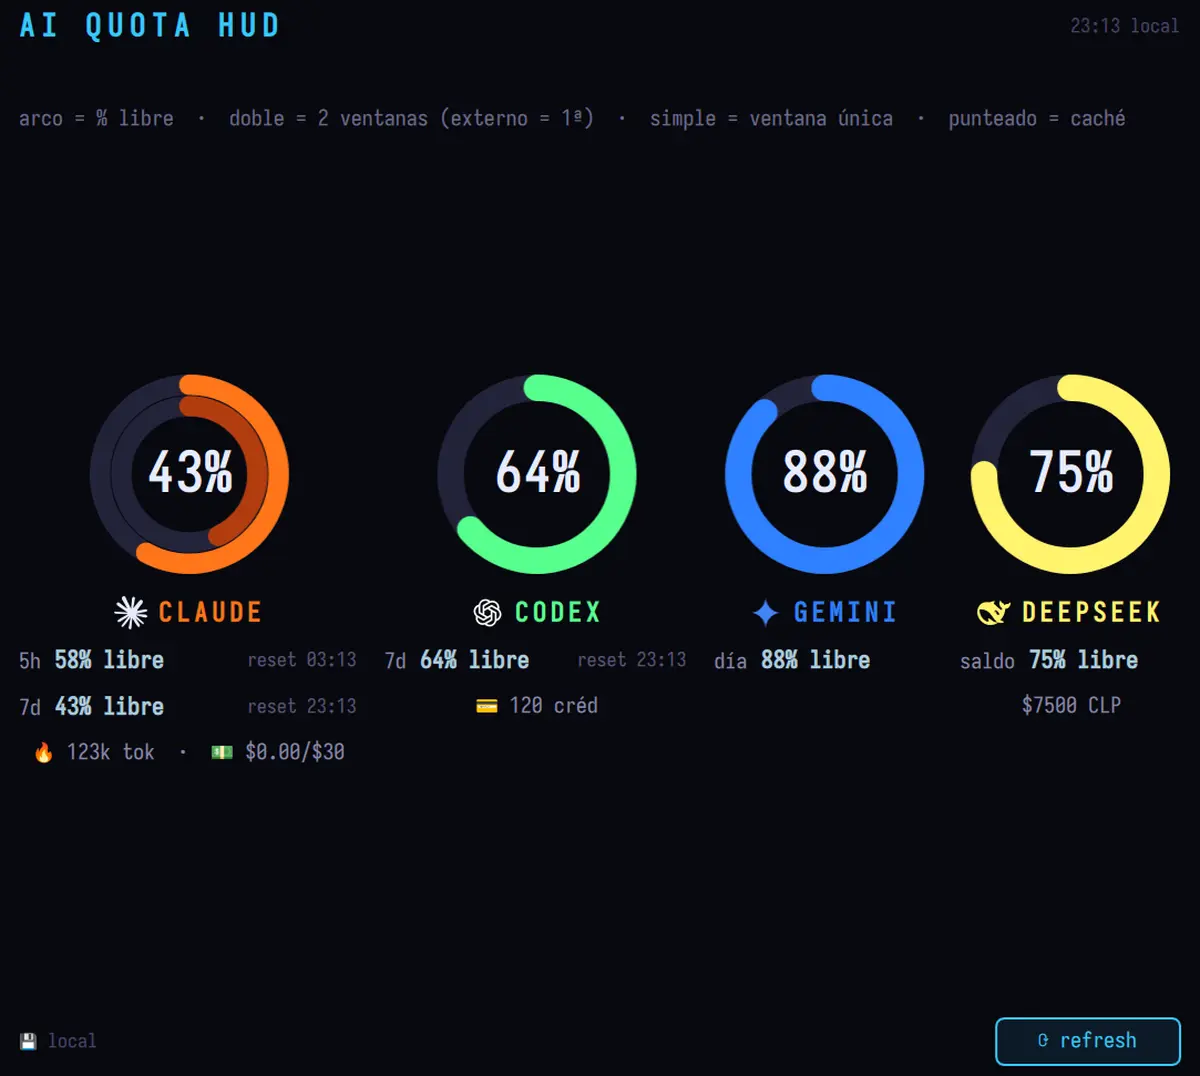
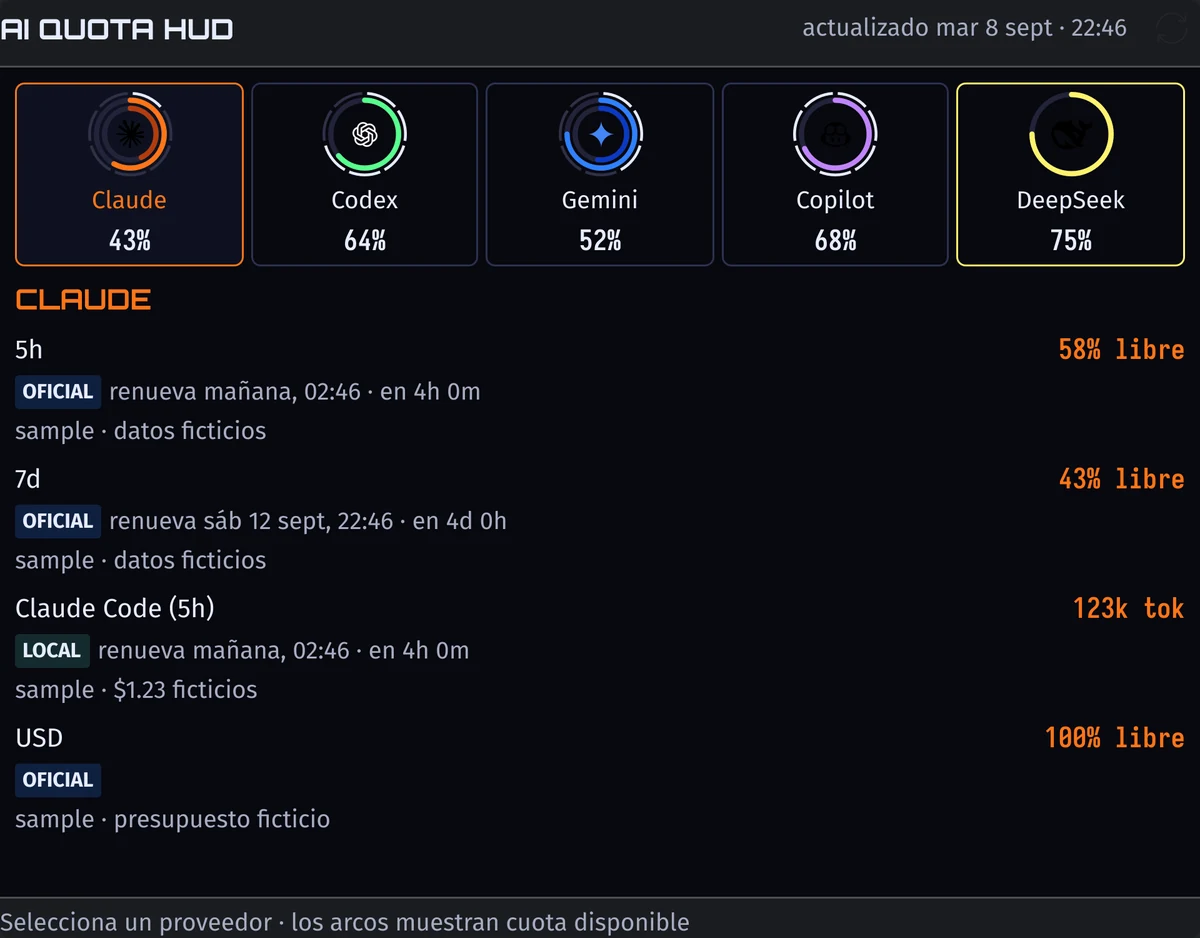
docs(ai-quota-hud): capturas HiDPI del estado actual y nota de actualizacion
Las capturas eran de julio y ya no representaban el widget: el post hablaba de
cuatro agentes cuando hay cinco, y la barra y el visor emergente estaban a 1x
--210x49 y 309x101 px-- de un diseno que cambio dos veces desde entonces.

Las tres figuras nuevas salen a 3x del script del repositorio del widget
(scripts/capture_previews.sh), no de una captura de pantalla a mano:

  bar.png           210x49   -> 648x120
  tooltip.png       309x101  -> 1260x930
  popup-hidpi.png   1083x971 -> 1920x1500

Se anade la vista al hacer clic como Figura 3, que hasta ahora solo existia como
poster del video; el video baja a Figura 4 y xkcd a Figura 5. El video se
conserva a proposito y su pie lo dice: es de julio y muestra el diseno anterior,
pero el recorrido que ilustra --panel, visor emergente, vista detallada-- sigue
siendo el mismo.

El post ingles tenia las capturas en espanol, porque compartia las rutas con el
espanol. Ahora tiene las suyas; la barra se sigue compartiendo porque no lleva
texto y es identica byte a byte en los dos idiomas.

Texto corregido en los dos idiomas: cinco agentes en vez de cuatro, Copilot
descrito en la lista de formas de medir, y los pies de figura explicando lo que
antes no estaba --que el arco es lo que queda libre, que las marcas blancas
cuentan dias al reinicio, que Antigravity lleva dos cuotas semanales con relojes
distintos, y que la insignia dice si la cifra la reporta el proveedor o es un
conteo local--.
[…]

diff --git a/_posts/2026-07-15-ai-quota-hud-kde.md b/_posts/2026-07-15-ai-quota-hud-kde.md
@@ -7,7 +7,7 @@ date: 2026-07-15 00:00:00 +0000
 categories: [ia, productividad, desarrollo, kde]
 tags: [kde, plasma, plasmoid, qml, python, systemd, mcp, claude-code, codex, gemini, deepseek, arch-linux, cuota, rate-limit, local-first]
 description: "Un plasmoide local para KDE Plasma 6 que muestra la cuota disponible de Claude, Codex, Gemini y DeepSeek. Cómo funciona y qué ocurrió cuando Codex cambió sus ventanas de uso."
-excerpt: "Cuatro agentes, cuatro formas de medir la cuota y un plasmoide para saber cuál todavía puede terminar el trabajo."
+excerpt: "Cinco agentes, cinco formas de medir la cuota y un plasmoide para saber cuál todavía puede terminar el trabajo."
 author: clabra
 lang: es
 ref: ai-quota-hud-kde
@@ -22,13 +22,13 @@ author_profile: true
 header:
   teaser: /assets/images/teasers/teaser-ai-quota-hud.webp
   og_image: /assets/images/ai-quota-hud/popup-og-1200.webp
-  og_image_alt: "Popup del plasmoide AI Quota HUD con cuatro indicadores circulares de cuota"
+  og_image_alt: "Vista detallada del plasmoide AI Quota HUD con cinco indicadores circulares de cuota"
 ---
 
 Actualmente ocupo Claude Code, Codex, Gemini (vía agy en CLI) y DeepSeek desde Arch Linux con KDE Plasma 6. Y como a muchos el problema está siendo saber cuál tiene cuota disponible, sobre todo en una tarea que ya tiene harto contexto, archivos revisados y hora de iteración.
 {: .text-justify}
 
-Así terminé armando un visor o HUD en el panel/barra de KDE: cuatro indicadores que muestran cuánto margen le queda a cada agente y cuándo debería reiniciarse. Sin otra pestaña, sin otro tablero y, sobre todo, sin sorprenderme que se acabó en medio del remate de una tarea o un `git rebase` 😱.
+Así terminé armando un visor o HUD en el panel/barra de KDE: cinco indicadores que muestran cuánto margen le queda a cada agente y cuándo debería reiniciarse. Sin otra pestaña, sin otro tablero y, sobre todo, sin sorprenderme que se acabó en medio del remate de una tarea o un `git rebase` 😱.
 {: .text-justify}
 
 ## Primera cucharada: la semana-token
@@ -36,34 +36,36 @@ Así terminé armando un visor o HUD en el panel/barra de KDE: cuatro indicadore
 Cada proveedor inventó su propia forma de medir cuánto podemos usarlo.
 {: .text-justify}
 
-Claude habla en ventanas de horas y días. Codex presenta las ventanas disponibles para el plan. Gemini requiere una estimación local de solicitudes. DeepSeek, en cambio, habla en saldo monetario.
+Claude habla en ventanas de horas y días. Codex presenta las ventanas disponibles para el plan. Gemini requiere una estimación local de solicitudes. Copilot cuenta solicitudes premium con corte de calendario. DeepSeek, en cambio, habla en saldo monetario.
 {: .text-justify}
 
-Cuatro agentes, cuatro relojes y ninguna unidad común.
+Cinco agentes, cinco relojes y ninguna unidad común.
 {: .text-justify}
 
 La industria consiguió así algo bastante particular: convertir las **horas-token** y las **semanas-token** en unidades reales de planificación. Ya no basta con preguntarse cuánto demora una tarea. También hay que calcular si el agente alcanza a terminarla antes de quedar a la antigua :).
 {: .text-justify}
 
-En el panel lo reduje a cuatro anillos o donas. Uno casi lleno significa que el agente todavía tiene margen. Uno casi vacío significa que conviene agradecerle los servicios prestados y probar con el siguiente.
+En el panel lo reduje a cinco anillos o donas. Uno casi lleno significa que el agente todavía tiene margen. Uno casi vacío significa que conviene agradecerle los servicios prestados y probar con el siguiente.
 {: .text-justify}
 
-{% include figure class="ai-quota-hud__donuts" popup=true image_path="/assets/images/ai-quota-hud/bar.png" alt="Barra compacta de AI Quota HUD en el panel de KDE Plasma, con cuatro indicadores circulares." caption="**Figura 1** — Vista compacta de AI Quota HUD en el panel de KDE Plasma. Los cuatro anillos resumen el margen disponible por agente. Fuente: captura propia con datos demostrativos." %}
+{% include figure class="ai-quota-hud__donuts" popup=true image_path="/assets/images/ai-quota-hud/bar.png" alt="Barra compacta de AI Quota HUD en el panel de KDE Plasma, con cinco indicadores circulares." caption="**Figura 1** — Vista compacta de AI Quota HUD en el panel de KDE Plasma. Los cinco anillos resumen el margen disponible por agente. El arco de color es lo que queda libre y las marcas blancas exteriores cuentan los días hasta el reinicio. Fuente: captura propia con datos ficticios." %}
 
-Al pasar el cursor aparece el detalle de las ventanas y sus horas de reinicio:
+Al pasar el cursor sobre una dona aparece el detalle de ese agente: sus ventanas y sus horas de reinicio.
 {: .text-justify}
 
-{% include figure popup=true image_path="/assets/images/ai-quota-hud/tooltip.png" alt="Tooltip de AI Quota HUD con el resumen de cuota y reinicio por agente." caption="**Figura 2** — El tooltip despliega las ventanas y horas de reinicio sin abandonar la tarea activa. Fuente: captura propia con datos demostrativos." %}
+{% include figure popup=true image_path="/assets/images/ai-quota-hud/tooltip.png" alt="Visor emergente de AI Quota HUD mostrando las cuatro ventanas de cuota de Antigravity y Gemini, cada una con su porcentaje libre y su hora de reinicio." caption="**Figura 2** — El visor emergente despliega las ventanas del agente señalado sin abandonar la tarea activa. Antigravity lleva dos cuotas semanales independientes, con relojes distintos: una para los modelos de Google y otra para los de terceros. La insignia dice de dónde viene cada cifra: `OFICIAL` si la reporta el proveedor, `LOCAL` si es un conteo propio. Fuente: captura propia con datos ficticios." %}
 
-Al abrir el plasmoide aparece el detalle completo de los cuatro agentes:
+Al hacer clic se abre la vista detallada, con los cinco agentes arriba y las ventanas del que se elija debajo.
 {: .text-justify}
+
+{% include figure popup=true image_path="/assets/images/ai-quota-hud/popup-hidpi.png" alt="Vista detallada de AI Quota HUD: fila de cinco selectores con el porcentaje libre de cada agente y, debajo, las cuatro ventanas de Claude con su porcentaje, procedencia y hora de reinicio." caption="**Figura 3** — Vista detallada. Arriba, los cinco agentes con su margen más ajustado; abajo, las ventanas del que se elija. Cada línea dice cuánto queda, cuándo renueva y de dónde sale la cifra. Fuente: captura propia con datos ficticios." %}
 
 <figure class="ai-quota-hud__video">
-  <video autoplay loop muted playsinline controls preload="metadata" poster="/assets/images/ai-quota-hud/popup-hidpi.png" aria-label="Demostración de AI Quota HUD: barra de KDE, tooltip y popup con cuatro indicadores de cuota.">
+  <video autoplay loop muted playsinline controls preload="metadata" poster="/assets/images/ai-quota-hud/popup-hidpi.png" aria-label="Demostración de AI Quota HUD: barra de KDE, visor emergente y vista detallada.">
     <source src="/assets/videos/ai-quota-hud-kde.webm" type="video/webm">
     Tu navegador no admite video WebM. Puedes <a href="/assets/videos/ai-quota-hud-kde.webm">abrir la demostración directamente</a>.
   </video>
-  <figcaption><strong>Figura 3</strong> — Demostración de AI Quota HUD desde la barra de KDE hasta la vista detallada. Panel, tooltip y popup leen una única fuente local; los valores mostrados son demostrativos y no representan cuotas personales. Fuente: captura propia.</figcaption>
+  <figcaption><strong>Figura 4</strong> — Recorrido desde la barra de KDE hasta la vista detallada. El video es de julio y muestra el diseño anterior, con cuatro agentes y sin la fila de selectores; las figuras 1 a 3 son del estado actual. Los valores son ficticios y no representan cuotas personales. Fuente: captura propia.</figcaption>
 </figure>
 
 ## Segunda cucharada: el dato manda, no el orden
@@ -181,4 +183,44 @@ No crea más cuota, no negocia mejores planes y no elimina la semana-token. Solo
 Es una cucharada pequeña de soberanía sobre mi propio flujo: saber cuánto queda, cuándo reinicia y a quién conviene pasarle el trabajo.
 {: .text-justify}
 
-{% include figure popup=true image_path="/assets/images/ai-quota-hud/xkcd-303-compiling.png" alt="xkcd 303, Compiling: dos programadores juegan mientras esperan que termine la compilación." caption="**Figura 4** — *Compiling*, [xkcd n.º 303](https://xkcd.com/303/), de Randall Munroe. Antes la coartada era que el código estaba compilando; ahora puedo alegar que la cuota reinicia la próxima semana. Licencia [CC BY-NC 2.5](https://creativecommons.org/licenses/by-nc/2.5/)." %}
+## Actualización del 8 de septiembre de 2026
+
+El HUD cambió lo suficiente como para que las capturas de julio ya no lo
+representaran. Lo que se ve arriba en las figuras 1 a 3 es el estado de hoy; el
+video de la figura 4 sigue siendo de julio y se conserva porque el recorrido
+—panel, visor emergente, vista detallada— no ha cambiado, aunque el diseño sí.
+{: .text-justify}
+
+Qué es distinto:
+{: .text-justify}
+
+- **Cinco agentes en vez de cuatro.** Se sumó Copilot, que cuenta solicitudes premium con corte de calendario. El texto del post decía «cuatro» en siete lugares y quedó corregido.
+- **Otro visor emergente.** Antes resumía los cinco agentes en una lista apretada. Ahora muestra el detalle del agente sobre el que está el cursor, con una insignia por línea que dice si la cifra la reporta el proveedor (`OFICIAL`) o es un conteo local (`LOCAL`).
+- **Otra vista al hacer clic.** Los cinco agentes pasaron a una fila de selectores con su margen más ajustado, y debajo van las ventanas del que se elija. Antes eran cinco columnas simultáneas que no cabían.
+- **Trazo y logotipos un punto más grandes.** El arco de cuota pasó de 0,055 a 0,060 del diámetro y los logotipos crecieron un 3 %, medido en ejecución. La apertura central se recuperó apretando la separación entre anillos, porque ensanchar el trazo la encogía.
+- **La interfaz está traducida.** Las cadenas fuente pasaron a inglés y el español vive en un catálogo `gettext`, así que el widget habla el idioma del escritorio.
+
+Y dos cosas que aparecieron justo al preparar estas capturas, que valen más que
+las capturas mismas:
+{: .text-justify}
+
+- Las fechas salían en inglés en un escritorio en español. `Qt.formatDate` con un formato escrito a mano usa el locale C, no el del sistema: con todo lo demás ya traducido, seguía diciendo «Sat 12 Sep» donde correspondía «sáb 12 sept». Medido con `QLocale("es_CL")` sobre la misma fecha.
+- Cuatro etiquetas las escribía el recolector en español y llegaban a pantalla sin pasar por el catálogo, así que en un escritorio en inglés se leían en español entre cadenas traducidas.
+
+Las capturas se generan con un script del repositorio, no a mano, y de ahí
+salen las tres figuras nuevas:
+{: .text-justify}
+
+```bash
+scripts/capture_previews.sh build/previews es 3
+```
+
+Renderiza las tres vistas fuera de pantalla, con el mismo componente que
+verifican las pruebas, y a la escala que se le pida —3× para estas—. Los datos
+salen de `ai-quota-monitor sample`, que escribe un informe ficticio en un
+directorio temporal: la caché real no se lee ni se toca, y cada línea del render
+queda rotulada como dato ficticio. Por eso las cifras de las figuras no son mis
+cuotas, y por eso se pueden volver a generar idénticas.
+{: .text-justify}
+
+{% include figure popup=true image_path="/assets/images/ai-quota-hud/xkcd-303-compiling.png" alt="xkcd 303, Compiling: dos programadores juegan mientras esperan que termine la compilación." caption="**Figura 5** — *Compiling*, [xkcd n.º 303](https://xkcd.com/303/), de Randall Munroe. Antes la coartada era que el código estaba compilando; ahora puedo alegar que la cuota reinicia la próxima semana. Licencia [CC BY-NC 2.5](https://creativecommons.org/licenses/by-nc/2.5/)." %}

diff --git a/_posts/2026-07-15-ai-quota-hud-kde-en.md b/_posts/2026-07-15-ai-quota-hud-kde-en.md
@@ -7,7 +7,7 @@ date: 2026-07-15 00:00:00 +0000
 categories: [ai, productivity, development, kde]
 tags: [kde, plasma, plasmoid, qml, python, systemd, mcp, claude-code, codex, gemini, deepseek, arch-linux, quota, rate-limit, local-first]
 description: "A local KDE Plasma 6 widget that shows the available quota for Claude, Codex, Gemini, and DeepSeek. How it works and what happened when Codex changed its usage windows."
-excerpt: "Four agents, four ways of measuring quota, and one widget to know which of them can still finish the job."
+excerpt: "Five agents, five ways of measuring quota, and one widget to know which of them can still finish the job."
 author: clabra
 lang: en
 ref: ai-quota-hud-kde
@@ -25,14 +25,14 @@ comments: true
 author_profile: true
 header:
   teaser: /assets/images/teasers/teaser-ai-quota-hud.webp
-  og_image: /assets/images/ai-quota-hud/popup-og-1200.webp
-  og_image_alt: "AI Quota HUD popup with four quota donuts"
+  og_image: /assets/images/ai-quota-hud/popup-og-1200-en.webp
+  og_image_alt: "AI Quota HUD detailed view with five quota donuts"
 ---
 
 I currently use Claude Code, Codex, Gemini (through `agy` on the command line), and DeepSeek on Arch Linux with KDE Plasma 6. For me, as for many others, the problem has become knowing which one still has quota—especially when a task already carries a lot of context, reviewed files, and an hour of iteration.
 {: .text-justify}
 
-That is how I ended up building a viewer, or HUD, for the KDE panel: four indicators showing how much room each agent has left and when its quota should reset. No extra tab, no separate dashboard, and—most importantly—no surprise when the quota runs out while I am wrapping up a task or a `git rebase` 😱.
+That is how I ended up building a viewer, or HUD, for the KDE panel: five indicators showing how much room each agent has left and when its quota should reset. No extra tab, no separate dashboard, and—most importantly—no surprise when the quota runs out while I am wrapping up a task or a `git rebase` 😱.
 {: .text-justify}
 
 ## First spoonful: the token-week
@@ -40,34 +40,36 @@ That is how I ended up building a viewer, or HUD, for the KDE panel: four indica
 Each provider invented its own way of measuring how much we can use it.
 {: .text-justify}
 
-Claude speaks in windows of hours and days. Codex reports the windows available for the plan. Gemini requires a local estimate of requests. DeepSeek, by contrast, speaks in monetary balance.
+Claude speaks in windows of hours and days. Codex reports the windows available for the plan. Gemini requires a local estimate of requests. Copilot counts premium requests against a calendar cutoff. DeepSeek, by contrast, speaks in monetary balance.
 {: .text-justify}
 
-Four agents, four clocks, and no shared unit.
+Five agents, five clocks, and no shared unit.
 {: .text-justify}
 
 The industry has achieved something rather peculiar: turning **token-hours** and **token-weeks** into real planning units. It is no longer enough to ask how long a task will take. I also have to calculate whether the agent can finish it before leaving me to do things the old-fashioned way :).
 {: .text-justify}
 
-On the panel I reduced it to four rings, or donuts. A nearly full one means the agent still has room. A nearly empty one means it is probably time to thank it for its service and try the next one.
+On the panel I reduced it to five rings, or donuts. A nearly full one means the agent still has room. A nearly empty one means it is probably time to thank it for its service and try the next one.
 {: .text-justify}
 
-{% include figure class="ai-quota-hud__donuts" popup=true image_path="/assets/images/ai-quota-hud/bar.png" alt="Compact AI Quota HUD bar on the KDE Plasma panel, with four circular indicators." caption="**Figure 1** — Compact AI Quota HUD view on the KDE Plasma panel. The four rings summarize the available margin by agent. Source: own screenshot with demonstration data." %}
+{% include figure class="ai-quota-hud__donuts" popup=true image_path="/assets/images/ai-quota-hud/bar.png" alt="Compact AI Quota HUD bar on the KDE Plasma panel, with five circular indicators." caption="**Figure 1** — Compact AI Quota HUD view on the KDE Plasma panel. The five rings summarize the available margin by agent. The coloured arc is what remains free, and the outer white marks count the days until reset. Source: own screenshot with synthetic data." %}
 
-Hovering over it shows the details of each window and its reset time:
+Hovering over one donut shows that agent in detail: its windows and their reset times.
 {: .text-justify}
 
-{% include figure popup=true image_path="/assets/images/ai-quota-hud/tooltip.png" alt="AI Quota HUD tooltip with quota and reset information by agent." caption="**Figure 2** — The tooltip shows windows and reset times without leaving the active task. Source: own screenshot with demonstration data." %}
+{% include figure popup=true image_path="/assets/images/ai-quota-hud/tooltip-en.png" alt="AI Quota HUD hover panel showing the four Antigravity and Gemini quota windows, each with its free percentage and reset time." caption="**Figure 2** — The hover panel shows the windows of the agent under the cursor without leaving the active task. Antigravity carries two independent weekly quotas on separate clocks: one for Google models and one for third-party ones. The badge says where each figure comes from: `OFFICIAL` if the provider reports it, `LOCAL` if it is a local count. Source: own screenshot with synthetic data." %}
 
-Opening the widget shows the complete detail for all four agents:
+Clicking opens the detailed view, with the five agents on top and the windows of whichever one is selected below.
 {: .text-justify}
+
+{% include figure popup=true image_path="/assets/images/ai-quota-hud/popup-hidpi-en.png" alt="AI Quota HUD detailed view: a row of five selectors with each agent's free percentage and, below, Claude's four windows with percentage, provenance and reset time." caption="**Figure 3** — The detailed view. On top, the five agents with their tightest margin; below, the windows of whichever one is selected. Each line says how much is left, when it renews, and where the figure comes from. Source: own screenshot with synthetic data." %}
 
 <figure class="ai-quota-hud__video">
-  <video autoplay loop muted playsinline controls preload="metadata" poster="/assets/images/ai-quota-hud/popup-hidpi.png" aria-label="AI Quota HUD demonstration: KDE panel, tooltip, and popup with four quota indicators.">
+  <video autoplay loop muted playsinline controls preload="metadata" poster="/assets/images/ai-quota-hud/popup-hidpi-en.png" aria-label="AI Quota HUD demonstration: KDE panel, hover panel, and detailed view.">
     <source src="/assets/videos/ai-quota-hud-kde.webm" type="video/webm">
     Your browser does not support WebM video. You can <a href="/assets/videos/ai-quota-hud-kde.webm">open the demonstration directly</a>.
   </video>
-  <figcaption><strong>Figure 3</strong> — AI Quota HUD demonstration from the KDE panel to the detailed view. Panel, tooltip, and popup read one local source; the values shown are demonstration data and do not represent personal quotas. Source: own screen recording.</figcaption>
+  <figcaption><strong>Figure 4</strong> — The walkthrough from the KDE panel to the detailed view. The recording is from July and shows the earlier design, with four agents and no selector row; figures 1 to 3 show the current state. The values are synthetic and do not represent personal quotas. Source: own screen recording.</figcaption>
 </figure>
 
 ## Second spoonful: the data decides, not the order
@@ -185,4 +187,44 @@ It does not create more quota, negotiate better plans, or eliminate the token-we
 It is a small spoonful of sovereignty over my own workflow: knowing how much remains, when it resets, and who should get the next handoff.
 {: .text-justify}
 
-{% include figure popup=true image_path="/assets/images/ai-quota-hud/xkcd-303-compiling.png" alt="xkcd 303, Compiling: two programmers play while waiting for compilation to finish." caption="**Figure 4** — *Compiling*, [xkcd no. 303](https://xkcd.com/303/), by Randall Munroe. The old excuse was that the code was compiling; now I can say the quota resets next week. Licensed under [CC BY-NC 2.5](https://creativecommons.org/licenses/by-nc/2.5/)." %}
+## Update, 8 September 2026
+
+The HUD changed enough that the July screenshots no longer represented it.
+Figures 1 to 3 above show the current state; the recording in figure 4 is still
+from July and is kept because the walkthrough —panel, hover panel, detailed
+view— has not changed, even though the design has.
+{: .text-justify}
+
+What is different:
+{: .text-justify}
+
+- **Five agents instead of four.** Copilot was added; it counts premium requests against a calendar cutoff. The post said "four" in seven places and has been corrected.
+- **A different hover panel.** It used to squeeze all five agents into one cramped list. It now shows the detail of the agent under the cursor, with a badge per line saying whether the figure is reported by the provider (`OFFICIAL`) or counted locally (`LOCAL`).
+- **A different click view.** The five agents moved into a row of selectors showing their tightest margin, with the windows of the selected one below. Previously it was five simultaneous columns that did not fit.
+- **Slightly thicker strokes and larger logos.** The quota arc went from 0.055 to 0.060 of the diameter and the logos grew by 3 %, measured at runtime. The central aperture was recovered by tightening the gap between rings, because widening the stroke was shrinking it.
+- **The interface is translated.** Source strings moved to English and Spanish lives in a `gettext` catalogue, so the widget speaks the language of the desktop.
+
+And two things that surfaced precisely while preparing these screenshots, which
+matter more than the screenshots themselves:
+{: .text-justify}
+
+- Dates rendered in English on a Spanish desktop. `Qt.formatDate` with a hand-written format uses the C locale, not the system one: with everything else already translated, it still said "Sat 12 Sep" where "sáb 12 sept" belonged. Measured with `QLocale("es_CL")` on the same date.
+- Four labels were written in Spanish by the collector and reached the screen without passing through the catalogue, so on an English desktop they read in Spanish among translated strings.
+
+The screenshots are generated by a script in the repository, not by hand, and
+that is where the three new figures come from:
+{: .text-justify}
+
+```bash
+scripts/capture_previews.sh build/previews en 3
+```
+
+It renders the three views offscreen, with the same component the tests verify,
+at whatever scale is asked for —3× for these. The data comes from
+`ai-quota-monitor sample`, which writes a synthetic report into a temporary
+directory: the real cache is neither read nor touched, and every line of the
+render is labelled as synthetic. That is why the figures do not show my quotas,
+and why they can be regenerated identically.
+{: .text-justify}
+
+{% include figure popup=true image_path="/assets/images/ai-quota-hud/xkcd-303-compiling.png" alt="xkcd 303, Compiling: two programmers play while waiting for compilation to finish." caption="**Figure 5** — *Compiling*, [xkcd no. 303](https://xkcd.com/303/), by Randall Munroe. The old excuse was that the code was compiling; now I can say the quota resets next week. Licensed under [CC BY-NC 2.5](https://creativecommons.org/licenses/by-nc/2.5/)." %}
